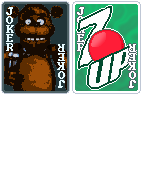
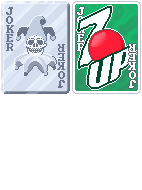
iron savior, temp remove distorted spectral

Changed region(s): [[0.0, 0.0, 0.507, 0.5], [0.7324, 0.0263, 0.7606, 0.0526]]

diff --git a/README.md b/README.md
@@ -4,7 +4,8 @@ Balatro mod adding an assortment of random ideas.
 ## Currently Implemented
 | Card | Type | Description |
 | ---- | ---- | ----------- |
-| 7-Up | Joker | Each played **7** permanently gains **+7** mult when scored |
+| 7-Up | Joker | Each played 7 permanently gains +7 mult when scored |
+| Iron Savior | Joker | Prevents death and destroys 1 Steel Card (Increase cards destroyed by 1 when Boss Blind defeated) |
 
 ## Unimplemented/Unfinished
 | Impl. | Card | Type | Description |
@@ -12,7 +13,7 @@ Balatro mod adding an assortment of random ideas.
 | <ul><li> - [x] </li></ul> | Dist. Wraith | Spectral | Fills Joker space with Rare Jokers, sets money to -$20 |
 | <ul><li> - [x] </li></ul> | Dist. Soul | Spectral | Creates a Negative Legendary Joker, +1 Ante (cannot be used on Ante 8) |
 | <ul><li> - [x] </li></ul> | Dist. Black Hole | Spectral | Upgrade all poker hands by 3 levels, reset played hand stats |
-| <ul><li> - [ ] </li></ul> | Dist. Medium | Spectral | Adds a **Spectral Seal** to one selected card |
+| <ul><li> - [ ] </li></ul> | Dist. Medium | Spectral | Adds a Spectral Seal to one selected card |
 | <ul><li> - [ ] </li></ul> | Dist. Trance | Spectral | Adds a Blue Seal to 2 chosen cards, removes all other seals from hand |
 | <ul><li> - [ ] </li></ul> | Dist. Deja Vu | Spectral | Adds a Red Seal to 2 chosen cards, removes all editions from hand |
 | <ul><li> - [ ] </li></ul> | Dist. Talisman | Spectral | Adds a Gold Seal to 2 chosen cards, removes all enhancements from hand |
